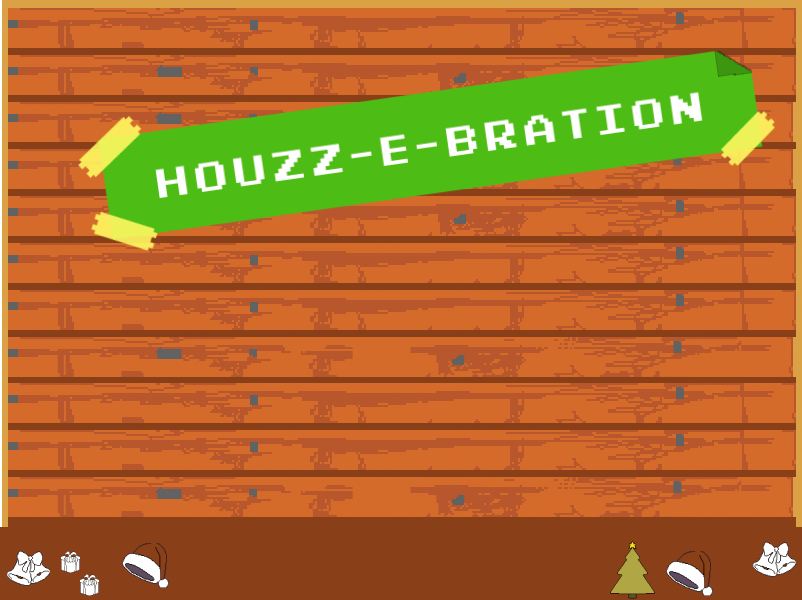
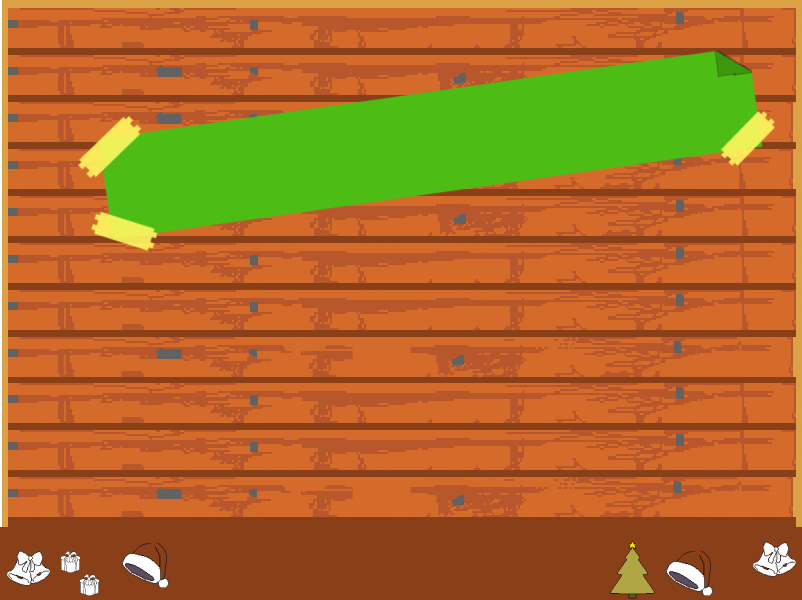
update background

Changed region(s): [[0.187, 0.15, 0.8728, 0.33]]

diff --git a/houzz-bingo/index.html b/houzz-bingo/index.html
@@ -6,7 +6,8 @@
   </head>
   <body>
     <div style="position: relative; width: 800px;  margin: auto;">
-    <div class="canvas-container">
+      <div class="canvas-container">
+      <div class="title-card">Houzz Holidayzz Bingo!!! </div>
       <canvas id="gameCanvas" width="800" height="600" />
     </div>
     <button id="spin-btn" onclick="onSpinCall()">

diff --git a/houzz-bingo/css/style.css b/houzz-bingo/css/style.css
@@ -44,6 +44,17 @@
   width: 800px;
 }
 
+.title-card {
+  position: absolute;
+  background: transparent;
+  color: white;
+  text-transform: uppercase;
+  font-size: 26px;
+  left: 124px;
+  top: 131px;
+  transform: rotatez(-8.65deg);
+}
+
 
 #spin-btn:hover {
   background-color: #45a912
